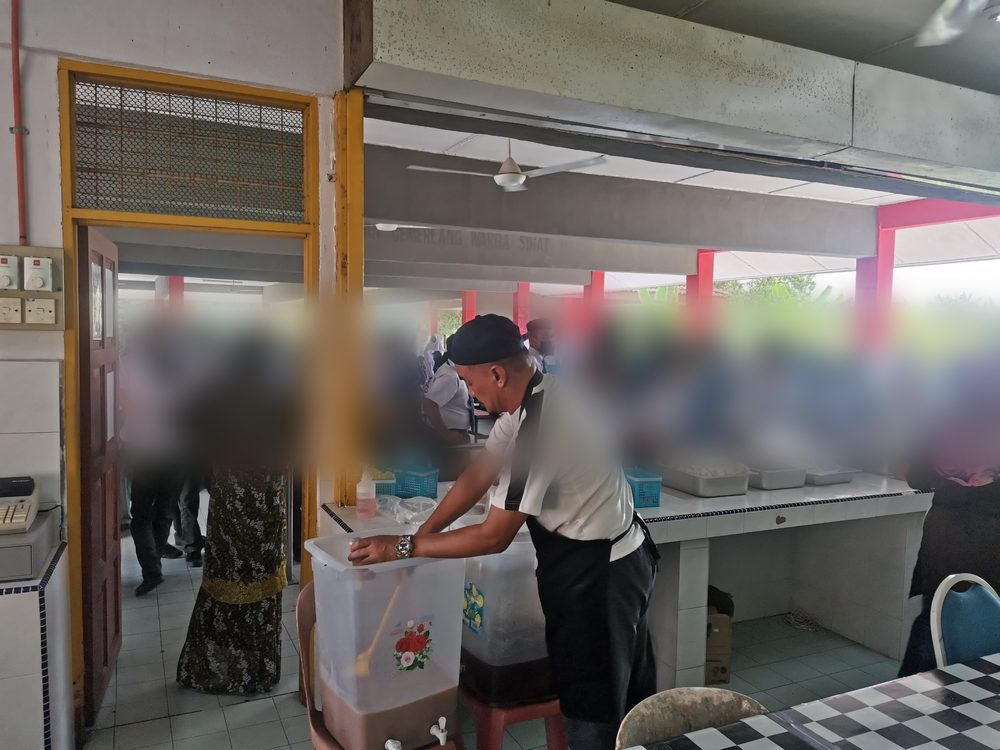
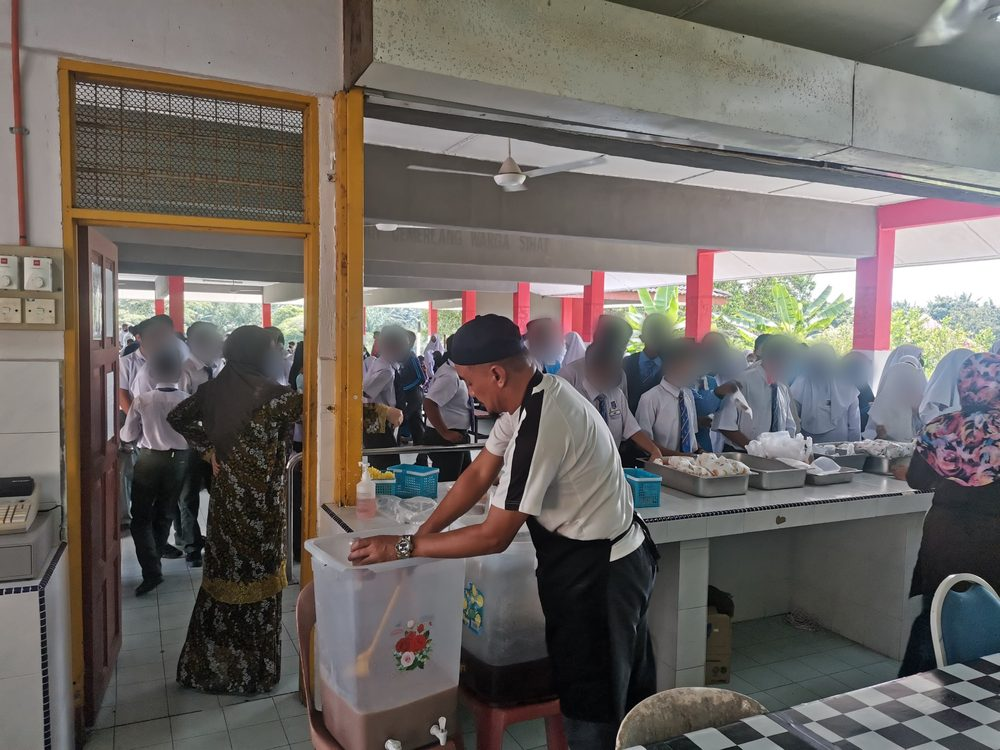
SMK: kaburkan muka pelajar satu per satu, bukan seluruh kawasan
Claude-Session: https://claude.ai/code/session_01XoEK4RG8qZfXn5YMfeRBhC

Changed region(s): [[0.093, 0.368, 1.0, 0.6747]]

diff --git a/README.md b/README.md
@@ -43,6 +43,6 @@ Laman tidak memerlukan pemasangan atau build. Dalam **Settings → Pages**, pili
 - `img/hero-bufet.jpg`: gambar hero (dipasang dalam `IMAGES.heroBase`). Lapisan gelap atas gambar diatur dalam CSS bertanda "Gambar hero".
 - `img/hero-vip.jpg`: versi "VIP" yang terdedah bila mouse digerakkan atas hero (efek berus, `IMAGES.heroReveal`). Dijana AI, kemudian dijajarkan dengan `hero-bufet.jpg`; tepi atas dan bawah kekal gambar asal. Efek ini hanya berfungsi dengan mouse (desktop).
 - `img/kantin-mfs.jpg`: latar kad projek "MFS Technology" (kantin kilang).
-- `img/kantin-smk.jpg`: latar kad projek "SMK Seri Bemban". Muka pelajar dikaburkan (bawah umur); jangan ganti dengan versi asal tanpa kebenaran sekolah.
+- `img/kantin-smk.jpg`: latar kad projek "SMK Seri Bemban". Muka pelajar yang jelas dikaburkan satu per satu (bawah umur); jangan ganti dengan versi asal tanpa kebenaran sekolah.
 - `img/makanan-packing.jpg`: latar kad projek "Makanan Packing".
 - Gambar dikecilkan (~1200px) dan data EXIF (termasuk lokasi GPS) dibuang sebelum dimasukkan. Buat perkara sama untuk gambar baru.
